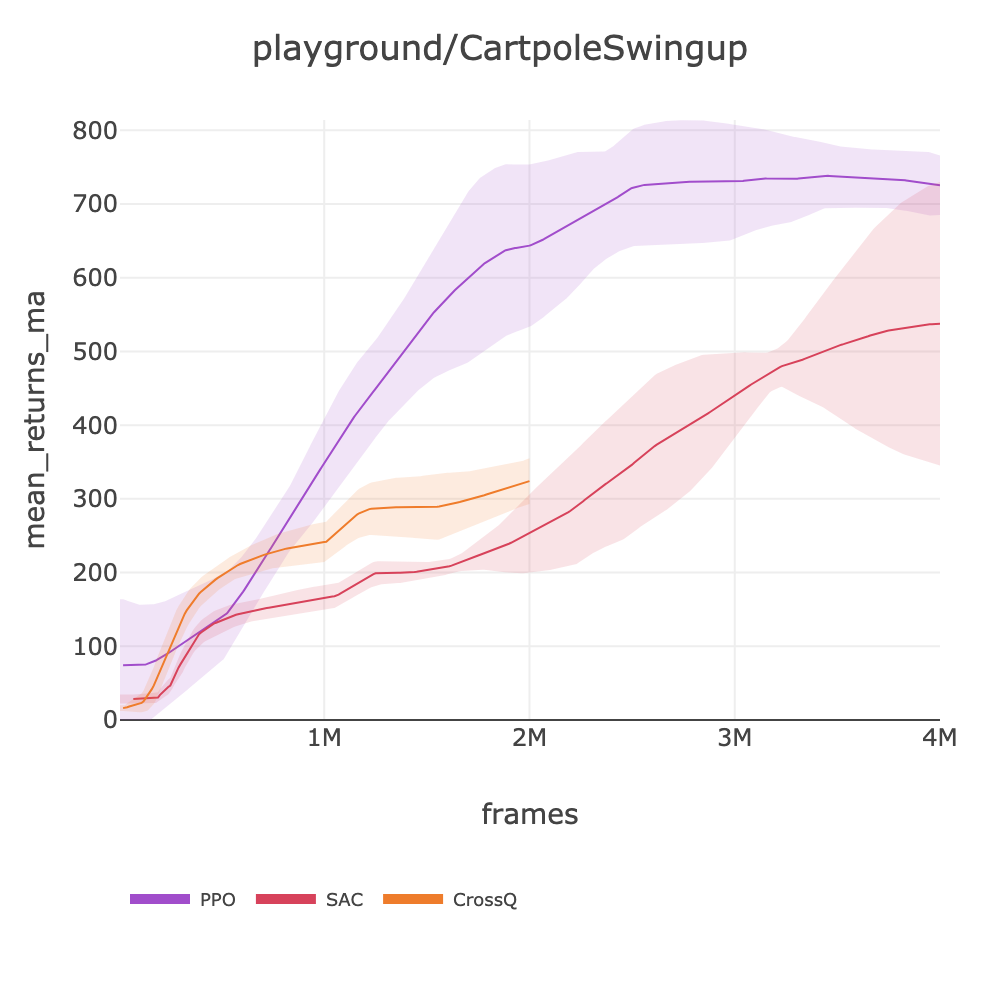
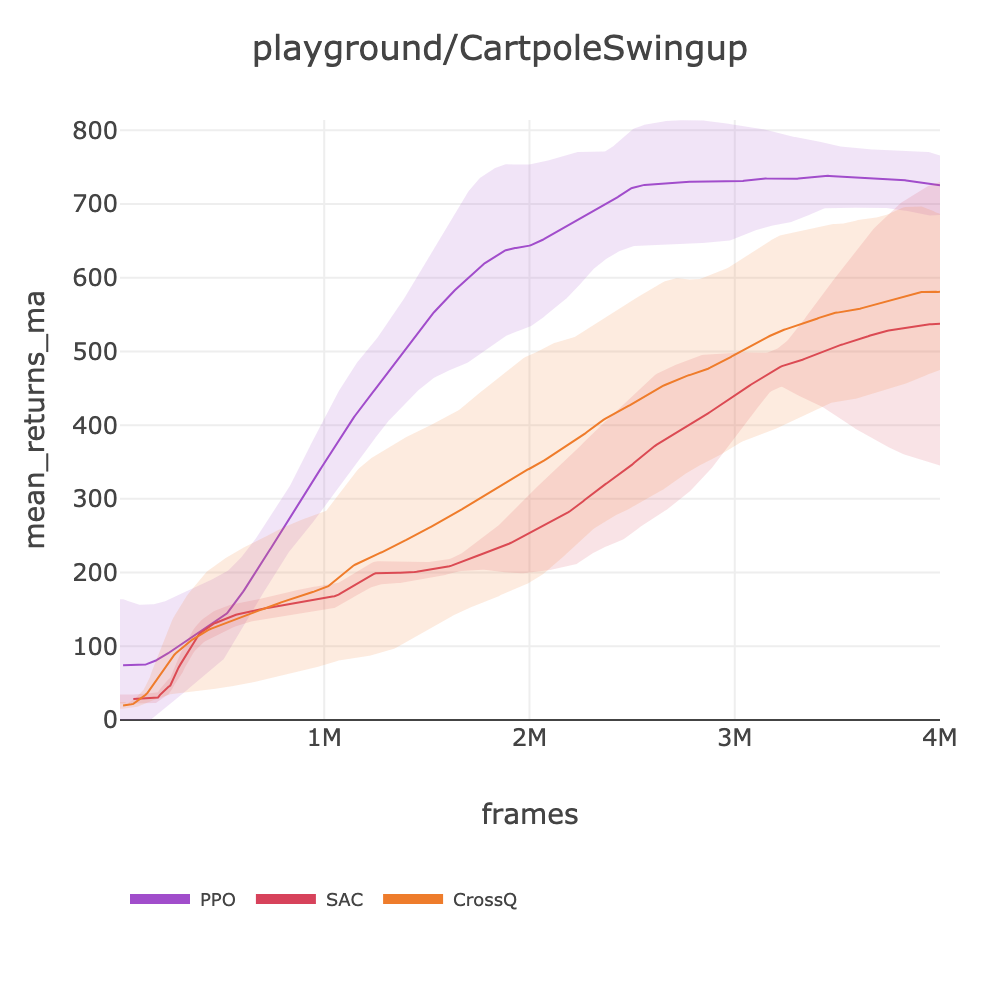
feat: intake CrossQ CartpoleSwingup score=580.89 (4M frames)
Improved from 324.11 (2M easy spec) to 580.89 (4M standard spec).
Updated plot with PPO+SAC+CrossQ comparison.

Changed region(s): [[0.124, 0.186, 0.961, 0.713]]

diff --git a/docs/BENCHMARKS.md b/docs/BENCHMARKS.md
@@ -841,7 +841,7 @@ source .env && uv run slm-lab run-remote --gpu --playground \
 | | SAC | ❌ | 110.77 | sac_playground_arc_fast | [sac_playground_arc_fast_cartpolebalancesparse_2026_03_08_201226](https://huggingface.co/datasets/SLM-Lab/benchmark-dev/tree/main/data/sac_playground_arc_fast_cartpolebalancesparse_2026_03_08_201226) | | ~380 | 2M | ~1.5h |
 | | CrossQ | ❌ | 163.11 | crossq_playground_arc | [crossq_playground_arc_easy_cartpolebalancesparse_2026_03_08_201227](https://huggingface.co/datasets/SLM-Lab/benchmark-dev/tree/main/data/crossq_playground_arc_easy_cartpolebalancesparse_2026_03_08_201227) | | ~790 | 2M | ~0.7h |
 | playground/CartpoleSwingup | PPO | ⚠ | 725.55 | ppo_playground_arc | [ppo_playground_arc_cartpoleswingup_2026_03_07_092749](https://huggingface.co/datasets/SLM-Lab/benchmark-dev/tree/main/data/ppo_playground_arc_cartpoleswingup_2026_03_07_092749) | ~868 | ~320 | 4M | ~3.5h |
-| | CrossQ | ❌ | 324.11 | crossq_playground_arc | [crossq_playground_arc_easy_cartpoleswingup_2026_03_07_185002](https://huggingface.co/datasets/SLM-Lab/benchmark-dev/tree/main/data/crossq_playground_arc_easy_cartpoleswingup_2026_03_07_185002) | | ~300 | 2M | ~1.9h |
+| | CrossQ | ❌ | 580.89 | crossq_playground_arc | [crossq_playground_arc_cartpoleswingup_2026_03_10_095248](https://huggingface.co/datasets/SLM-Lab/benchmark-dev/tree/main/data/crossq_playground_arc_cartpoleswingup_2026_03_10_095248) | | ~825 | 4M | ~1.3h |
 | | SAC | ❌ | 537.61 | sac_playground_arc_fast | [sac_playground_arc_fast_cartpoleswingup_2026_03_09_181310](https://huggingface.co/datasets/SLM-Lab/benchmark-dev/tree/main/data/sac_playground_arc_fast_cartpoleswingup_2026_03_09_181310) | | ~741 | 4M | ~1.5h |
 | playground/CartpoleSwingupSparse | PPO | ⚠ | 545.07 | ppo_playground_arc | [ppo_playground_arc_cartpoleswingupsparse_2026_03_07_100455](https://huggingface.co/datasets/SLM-Lab/benchmark-dev/tree/main/data/ppo_playground_arc_cartpoleswingupsparse_2026_03_07_100455) | ~630 | ~420 | 4M | ~2.6h |
 | | CrossQ | ❌ | 0.00 | crossq_playground_arc | [crossq_playground_arc_easy_cartpoleswingupsparse_2026_03_07_210420](https://huggingface.co/datasets/SLM-Lab/benchmark-dev/tree/main/data/crossq_playground_arc_easy_cartpoleswingupsparse_2026_03_07_210420) | | ~717 | 2M | ~0.8h |
